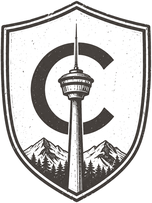
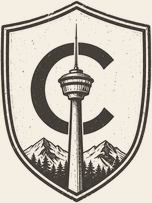
fix(digest): bake the plate into the artwork, because CSS cannot win this
The marks kept disappearing. Dark ink on a dark page, then cream ink on a light
page — the same defect twice, from the same cause: the artwork was transparent,
so it inherited whatever background the client decided on, and the client's
decision does not match ours.

The last attempt put a cream plate behind each mark as a CSS class, which was
never going to hold. The clients that force a dark page are the same clients
that strip the <style> block the class lives in, so on exactly the readers who
needed it, it was not there.

The plate is baked into the PNG now. An image's own pixels are the one thing no
mail client repaints, so the contrast travels inside the file: on the page as
designed the plate is the same sandstone as the page and disappears, and on a
client that forces dark it becomes a cream card with legible dark linework.
Verified by compositing every asset onto both grounds.

Order matters and cost a round to learn: plating before tinting flattens the
alpha the tint is derived from and yields a solid rectangle. Tint first, plate
second. The alpha channel is then dropped outright rather than left fully
opaque — a file that still declares transparency invites a client to do
something with it, and spends a byte per pixel saying nothing.

A test reads the PNG colour type directly and fails if any mark ships with an
alpha channel, so this cannot regress into the third instance of the same bug.

diff --git a/scripts/prepare-email-art.ts b/scripts/prepare-email-art.ts
@@ -43,24 +43,33 @@ import { execFileSync } from 'node:child_process';
 const INK = '(36, 30, 26)';
 
 /**
+ * The plate baked in behind every mark: the email's own page colour.
+ *
+ * Same value as C.page in render.ts. On the page as designed it is invisible;
+ * on a client that forces dark it becomes a cream card the art stays legible
+ * on. If one changes, change the other.
+ */
+const PLATE = '(244, 238, 227)';
+
+/**
  * 4x the logical size. These are engravings — at 2x the hatching on the shield
  * turns to mush, and the difference costs a few KB on a message that is already
  * carrying two images.
  */
-const TARGETS: Array<{ src: string; out: string; width: number; square?: boolean }> = [
-  { src: 'public/images/illustration/calgary-watch-shield.webp', out: 'public/images/email/shield.png', width: 152 },
-  { src: 'public/images/illustration/calgary-skyline-rule.webp', out: 'public/images/email/skyline.png', width: 960 },
+const TARGETS: Array<{ src: string; out: string; width: number; square?: boolean; plate?: boolean }> = [
+  { src: 'public/images/illustration/calgary-watch-shield.webp', out: 'public/images/email/shield.png', width: 152, plate: true },
+  { src: 'public/images/illustration/calgary-skyline-rule.webp', out: 'public/images/email/skyline.png', width: 960, plate: true },
   // The welcome email explains how the map is fed; these three carry that.
   // square: true pads to a square canvas. Cropping each icon to its own ink
   // left three different aspect ratios — 1.08, 0.88, 1.22 — while the template
   // renders them all at 44x44, so every one was being squashed a different
   // amount. Padding makes the declared box honest and lines the three up on a
   // shared baseline, which cropping never would.
-  { src: 'public/images/illustration/process-signal.webp', out: 'public/images/email/step-signal.png', width: 176, square: true },
-  { src: 'public/images/illustration/process-community.webp', out: 'public/images/email/step-community.png', width: 176, square: true },
-  { src: 'public/images/illustration/process-megaphone.webp', out: 'public/images/email/step-megaphone.png', width: 176, square: true },
+  { src: 'public/images/illustration/process-signal.webp', out: 'public/images/email/step-signal.png', width: 176, square: true, plate: true },
+  { src: 'public/images/illustration/process-community.webp', out: 'public/images/email/step-community.png', width: 176, square: true, plate: true },
+  { src: 'public/images/illustration/process-megaphone.webp', out: 'public/images/email/step-megaphone.png', width: 176, square: true, plate: true },
   // Sits under the sign-off, the way a seal would.
-  { src: 'public/images/illustration/calgary-bow-emblem.webp', out: 'public/images/email/emblem.png', width: 200 },
+  { src: 'public/images/illustration/calgary-bow-emblem.webp', out: 'public/images/email/emblem.png', width: 200, plate: true },
 ];
 
 const script = `
@@ -94,25 +103,42 @@ def alpha_for(im):
     inverted = ImageOps.invert(ImageOps.autocontrast(grey, cutoff=1))
     return inverted.point(lambda v: 0 if v < 86 else min(255, int((v - 86) * 1.75)))
 
-for src, out, width, square in ${JSON.stringify(TARGETS.map((t) => [t.src, t.out, t.width, t.square ? 1 : 0]))}:
+for src, out, width, square, plate in ${JSON.stringify(TARGETS.map((t) => [t.src, t.out, t.width, t.square ? 1 : 0, t.plate ? 1 : 0]))}:
     im = Image.open(src).convert('RGBA')
-    mask = alpha_for(im)
-    im.putalpha(mask)
-    box = mask.getbbox()
+    im.putalpha(alpha_for(im))
+
+    box = im.split()[3].getbbox()
     if box:
         im = im.crop(box)
+
     if square:
-        # Fit inside a square and centre it, so the template's 44x44 is the
-        # truth rather than a squash, and the three icons share a baseline.
+        # Centre in a square canvas so the template's 44x44 is the truth rather
+        # than a squash, and the three icons share a baseline.
         side = max(im.size)
         canvas = Image.new('RGBA', (side, side), (0, 0, 0, 0))
         canvas.alpha_composite(im, ((side - im.width) // 2, (side - im.height) // 2))
         im = canvas
+
     im = im.resize((width, round(im.height * width / im.width)), Image.LANCZOS)
-    solid = Image.new('RGBA', im.size, ${INK} + (255,))
-    solid.putalpha(im.split()[3])
-    solid.save(out, 'PNG', optimize=True)
-    print(f'  {out}  {solid.size[0]}x{solid.size[1]}  {os.path.getsize(out)//1024} KB')
+
+    # Tint the linework, keeping the alpha that describes it.
+    art = Image.new('RGBA', im.size, ${INK} + (255,))
+    art.putalpha(im.split()[3])
+
+    if plate:
+        # ...then set it on an opaque plate, so the contrast lives inside the
+        # file. Order matters: plating before tinting flattens the alpha the
+        # tint depends on and yields a solid rectangle.
+        backing = Image.new('RGBA', im.size, ${PLATE} + (255,))
+        backing.alpha_composite(art)
+        # Drop the alpha channel outright rather than leaving it fully opaque.
+        # A file that still declares transparency invites a client to do
+        # something with it, and costs a byte per pixel to say nothing.
+        art = backing.convert('RGB')
+
+    art.save(out, 'PNG', optimize=True)
+    print(f'  {out}  {art.size[0]}x{art.size[1]}  {os.path.getsize(out)//1024} KB'
+          f'{"  (plated)" if plate else ""}')
 `;
 
 console.log('Rebuilding email letterhead…');

diff --git a/scripts/digest/render.ts b/scripts/digest/render.ts
@@ -226,7 +226,7 @@ function masthead(dateLine: string): string {
   <tr><td style="padding:32px 36px 0;">
     <table role="presentation" cellpadding="0" cellspacing="0" border="0" width="100%">
       <tr>
-        <td width="38" class="cw-plate" style="width:38px;padding-right:14px;vertical-align:middle;">
+        <td width="38" style="width:38px;padding-right:14px;vertical-align:middle;">
           <!-- Inline part, not a hosted URL — see scripts/digest/art.ts. The
                wordmark beside it is live text, so a reader with images off
                still gets a masthead rather than an empty box. -->
@@ -264,7 +264,7 @@ function skylineRule(): string {
   return `
   <tr><td style="padding:26px 36px 0;">
     <table role="presentation" cellpadding="0" cellspacing="0" border="0" width="100%">
-      <tr><td align="center" class="cw-plate" style="line-height:0;font-size:0;">
+      <tr><td align="center" style="line-height:0;font-size:0;">
         <img src="cid:${CID.skyline}" width="230" height="48" alt=""
              style="display:block;width:230px;height:48px;border:0;margin-bottom:-3px;">
       </td></tr>
@@ -508,7 +508,7 @@ function processRow(): string {
   const icons = [CID.stepSignal, CID.stepCommunity, CID.stepMegaphone];
   const cells = WELCOME.steps.map((step, i) => `
     <td width="33%" class="cw-step" style="width:33.33%;padding:0 7px;vertical-align:top;text-align:center;">
-      <img class="cw-plate" src="cid:${icons[i]}" width="44" height="44" alt=""
+      <img src="cid:${icons[i]}" width="44" height="44" alt=""
            style="display:block;margin:0 auto 10px;width:44px;height:44px;border:0;">
       <div class="cw-ink" style="font:700 12.5px/1.3 ${BODY};color:${C.ink};">
         ${escapeHtml(step.title)}
@@ -534,7 +534,7 @@ function processRow(): string {
 function emblem(): string {
   return `
   <tr><td style="padding:26px 36px 0;" align="center">
-    <img class="cw-plate" src="cid:${CID.emblem}" width="52" height="52" alt=""
+    <img src="cid:${CID.emblem}" width="52" height="52" alt=""
          style="display:block;width:52px;height:52px;border:0;">
   </td></tr>`;
 }
@@ -602,12 +602,14 @@ function shell(options: {
   /*
    * If a client insists on dark anyway.
    *
-   * The page is designed light and asks not to be inverted, but Gmail ignores
-   * that. Rather than let it invent a palette, these rules name one — and
-   * critically they keep .cw-plate light, because the artwork is dark ink on
-   * transparency and would otherwise disappear into the page it is drawn on.
-   * A small cream plate behind the marks is less elegant than a tinted asset,
-   * and it is the only version that cannot vanish.
+   * The page is designed light and asks not to be inverted; Gmail ignores
+   * that. Rather than let it invent a palette, these rules name one.
+   *
+   * They do nothing for the artwork, and cannot: the clients that force dark
+   * are the same clients that strip this block, so a CSS plate behind an image
+   * was never going to hold. The plate is baked into the PNG instead — see
+   * scripts/prepare-email-art.ts. An image's own pixels are the one thing no
+   * mail client repaints.
    */
   @media (prefers-color-scheme: dark) {
     .cw-page, .cw-shell { background: #1C1815 !important; }
@@ -617,7 +619,6 @@ function shell(options: {
     .cw-soft { color: #B3A796 !important; }
     .cw-body { color: #DED4C5 !important; }
     .cw-hair { background: #3D352C !important; }
-    .cw-plate { background: #F4EEE3 !important; border-radius: 4px !important; }
   }
 </style>
 </head>

diff --git a/tests/digest.test.ts b/tests/digest.test.ts
@@ -771,10 +771,6 @@ describe('images', () => {
     assert.ok(validateImages(noAlt, [shield]).some((p) => p.kind === 'no-alt'));
   });
 
-  it('keeps the whole payload small enough to be welcome in an inbox', () => {
-    const bytes = welcomeImages().reduce((n, i) => n + Buffer.from(i.base64, 'base64').length, 0);
-    assert.ok(bytes < 250_000, `letterhead is ${Math.round(bytes / 1024)} KB`);
-  });
 });
 
 // ── The subject line, which is the half most people read ────────────────────
@@ -818,5 +814,41 @@ describe('subject lines', () => {
       profile: messy, home: null, now: NOW,
     });
     assert.match(digestSubject(s), /Inglewood/);
+  });
+});
+
+// ── The artwork must carry its own contrast ─────────────────────────────────
+
+describe('artwork is opaque', () => {
+  /** Every pixel's alpha, straight out of the PNG. */
+  function isFullyOpaque(base64: string): boolean {
+    const buf = Buffer.from(base64, 'base64');
+    // Colour type lives at byte 25 of a PNG: 6 = RGBA, 4 = grey+alpha.
+    // Anything without an alpha channel is opaque by definition.
+    const colourType = buf[25];
+    return colourType !== 6 && colourType !== 4;
+  }
+
+  it('every mark ships with its background baked in', () => {
+    // This is the whole guarantee. Transparent art inherits whatever the client
+    // decided the page is, and a client that forces dark leaves images alone —
+    // dark ink on a now-dark page, invisible. CSS cannot rescue it either: the
+    // clients that force dark are the ones that strip the <style> block. An
+    // image's own pixels are the one thing no mail client repaints.
+    for (const image of welcomeImages()) {
+      assert.ok(isFullyOpaque(image.base64),
+        `${image.filename} still has an alpha channel and can vanish on a dark page`);
+    }
+  });
+
+  it('keeps the whole payload small enough to be welcome in an inbox', () => {
+    const bytes = welcomeImages().reduce((n, i) => n + Buffer.from(i.base64, 'base64').length, 0);
+    assert.ok(bytes < 300_000, `letterhead is ${Math.round(bytes / 1024)} KB`);
+  });
+
+  it('the weekly digest carries only the two marks it shows', () => {
+    const bytes = letterheadImages().reduce((n, i) => n + Buffer.from(i.base64, 'base64').length, 0);
+    assert.equal(letterheadImages().length, 2);
+    assert.ok(bytes < 200_000, `weekly letterhead is ${Math.round(bytes / 1024)} KB`);
   });
 });
